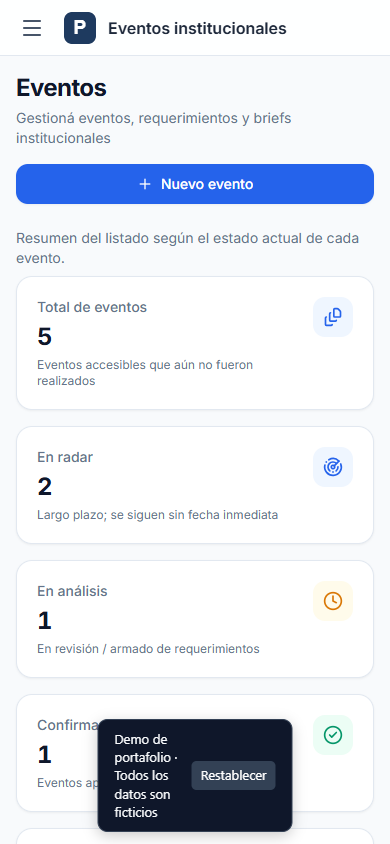
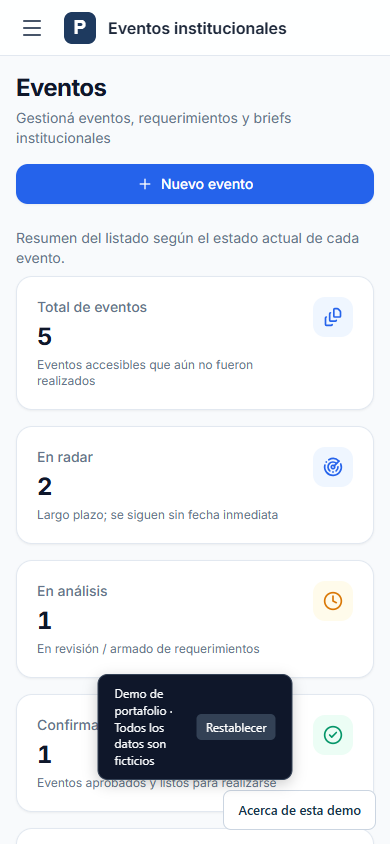
Add demo introductions, remove institutional branding and fix UTF-8 text

Changed region(s): [[0.2462, 0.8009, 0.9231, 1.0]]

diff --git a/lib/projects.ts b/lib/projects.ts
@@ -81,7 +81,7 @@ export const projects: Project[] = [
       '/proyectos/acreditapp/eventos.png',
       '/proyectos/acreditapp/informe.png',
     ],
-    meta: { type: 'Web app full stack', client: 'GCBA', date: '2025' },
+    meta: { type: 'Web app full stack', client: 'Organización', date: '2025' },
     results: [
       { value: 'Tiempo real', label: 'Control operativo durante el evento' },
       { value: '100%', label: 'Trazabilidad de acreditaciones' },
@@ -137,7 +137,7 @@ export const projects: Project[] = [
       '/proyectos/recursos-humanos/metricas.png',
       '/proyectos/recursos-humanos/aprobaciones.png',
     ],
-    meta: { type: 'Web app full stack', client: 'GCBA', date: '2025' },
+    meta: { type: 'Web app full stack', client: 'Organización', date: '2025' },
     results: [
       { value: '1 hub', label: 'Operación RR.HH. centralizada' },
       { value: 'Roles', label: 'Permisos y trazabilidad por perfil' },
@@ -155,11 +155,11 @@ export const projects: Project[] = [
   },
   {
     slug: 'buscador-dotacion-gcba',
-    title: 'Buscador Dotación GCBA',
+    title: 'Buscador Dotación',
     category: 'Herramienta de datos',
     shortDescription:
       'Aplicación interna para consultar y explotar más de 230.000 registros de dotación con filtros avanzados y exportaciones.',
-    what: 'Diseñé y desarrollé una aplicación web interna para consultar y explotar la dotación del GCBA sobre una base de más de 230.000 registros. Pensada para transformar una base extensa en una herramienta ágil, usable y orientada a decisiones.',
+    what: 'Diseñé y desarrollé una aplicación web interna para consultar y explotar la dotación de una organización sobre una base de más de 230.000 registros. Pensada para transformar una base extensa en una herramienta ágil, usable y orientada a decisiones.',
     problem:
       'El problema operativo concreto era transformar una base extensa y difícil de navegar en una herramienta usable: las consultas, segmentaciones y tareas administrativas requerían mucho tiempo o trabajo manual porque no existía una forma ágil de buscar personas, cruzar CUILs, detectar registros sin email o generar listas de mailing listas para exportar.',
     solution:
@@ -191,7 +191,7 @@ export const projects: Project[] = [
       '/proyectos/buscador-dotacion/cargos.png',
       '/proyectos/buscador-dotacion/mailing.png',
     ],
-    meta: { type: 'Web app de consulta', client: 'GCBA', date: '2025' },
+    meta: { type: 'Web app de consulta', client: 'Organización', date: '2025' },
     results: [
       { value: '230K+', label: 'Registros consultables' },
       { value: '−80%', label: 'Tiempo en consultas repetitivas' },
@@ -245,7 +245,7 @@ export const projects: Project[] = [
       '/proyectos/sigma/analytics.png',
       '/proyectos/sigma/gestion.png',
     ],
-    meta: { type: 'Plataforma de gestión', client: 'GCBA', date: '2025–2026' },
+    meta: { type: 'Plataforma de gestión', client: 'Organización', date: '2025–2026' },
     results: [
       { value: '1 vista', label: 'Consolidación de indicadores' },
       { value: 'Roles', label: 'Gestión por área y permisos' },
@@ -263,18 +263,18 @@ export const projects: Project[] = [
   },
   {
     slug: 'produccion-eventos',
-    title: 'Producci?n de eventos',
-    category: 'Gesti?n de eventos',
-    shortDescription: 'Plataforma para coordinar eventos, requerimientos de producci?n y calendarios institucionales.',
-    what: 'Sistema de gesti?n de eventos con estados, calendario, requerimientos por ?rea y seguimiento de la producci?n.',
+    title: 'Producción de eventos',
+    category: 'Gestión de eventos',
+    shortDescription: 'Plataforma para coordinar eventos, requerimientos de producción y calendarios institucionales.',
+    what: 'Sistema de gestión de eventos con estados, calendario, requerimientos por área y seguimiento de la producción.',
     problem: '',
     solution: '',
     problemPoints: [],
-    solutionFeatures: ['Gesti?n de eventos y estados', 'Calendario compartido', 'Requerimientos por ?rea'],
+    solutionFeatures: ['Gestión de eventos y estados', 'Calendario compartido', 'Requerimientos por área'],
     tech: ['React', 'TypeScript', 'Node.js', 'Prisma'],
     href: '/demos/produccion',
     gallery: ['/proyectos/produccion/listado.png', '/proyectos/produccion/calendario.png'],
-    meta: { type: 'Plataforma de gesti?n', client: 'GCBA', date: '2026' },
+    meta: { type: 'Plataforma de gestión', client: 'Organización', date: '2026' },
     results: [],
     process: [],
     featured: false,

diff --git a/components/projects/project-detail-content.tsx b/components/projects/project-detail-content.tsx
@@ -44,7 +44,7 @@ export function ProjectDetailContent({ project }: { project: Project }) {
                 <dd>{project.meta.client}</dd>
               </div>
               <div>
-                <dt>A?o</dt>
+                <dt>Año</dt>
                 <dd>{project.meta.date}</dd>
               </div>
             </dl>
@@ -65,13 +65,13 @@ export function ProjectDetailContent({ project }: { project: Project }) {
             <nav className="detail-nav" aria-label="Contenido del proyecto">
               <a href="#resumen">Contexto</a>
               <a href="#problema">Problema</a>
-              <a href="#solucion">Soluci?n</a>
+              <a href="#solucion">Solución</a>
               {project.process.length > 0 && <a href="#proceso">Proceso</a>}
               {project.results.length > 0 && (
                 <a href="#resultados">Resultados</a>
               )}
-              <a href="#tecnologias">Tecnolog?as</a>
-              {project.gallery.length > 0 && <a href="#galeria">Galer?a</a>}
+              <a href="#tecnologias">Tecnologías</a>
+              {project.gallery.length > 0 && <a href="#galeria">Galería</a>}
             </nav>
             <section id="resumen" className="detail-section" data-reveal>
               <h2>
@@ -81,7 +81,7 @@ export function ProjectDetailContent({ project }: { project: Project }) {
             </section>
             <section id="problema" className="detail-section" data-reveal>
               <h2>
-                <span>02 / Desaf?o</span>El problema.
+                <span>02 / Desafío</span>El problema.
               </h2>
               <div>
                 <p>{project.problem}</p>
@@ -97,7 +97,7 @@ export function ProjectDetailContent({ project }: { project: Project }) {
             </section>
             <section id="solucion" className="detail-section" data-reveal>
               <h2>
-                <span>03 / Producto</span>La soluci?n.
+                <span>03 / Producto</span>La solución.
               </h2>
               <div>
                 <p>{project.solution}</p>
@@ -157,7 +157,7 @@ export function ProjectDetailContent({ project }: { project: Project }) {
             {project.gallery.length > 0 && (
               <section id="galeria" className="gallery-section">
                 <p className="eyebrow">07 / Dentro del producto</p>
-                <h2>Una mirada m?s cerca.</h2>
+                <h2>Una mirada más cerca.</h2>
                 <div className="detail-gallery">
                   {project.gallery.map((src, index) => (
                     <figure key={src} data-reveal>

diff --git a/components/sections/skills-section.tsx b/components/sections/skills-section.tsx
@@ -18,7 +18,7 @@ const groups = [
   },
   {
     title: "Backend y datos",
-    description: "La estructura que conecta el producto con su operaci?n.",
+    description: "La estructura que conecta el producto con su operación.",
     skills: [
       "Node.js",
       "Express",
@@ -28,29 +28,29 @@ const groups = [
       "MongoDB",
       "APIs REST",
       "CRUD",
-      "An?lisis de datos",
+      "Análisis de datos",
     ],
   },
   {
-    title: "Producto y automatizaci?n",
+    title: "Producto y automatización",
     description:
-      "De la idea a producci?n, con procesos que pueden evolucionar.",
+      "De la idea a producción, con procesos que pueden evolucionar.",
     skills: [
       "Arquitectura web",
       "n8n",
       "Integraciones",
       "Despliegue",
       "Mantenimiento evolutivo",
-      "Documentaci?n t?cnica",
-      "Contenido did?ctico",
-      "Curr?culas",
-      "Mentor?a",
-      "Comunicaci?n t?cnica",
+      "Documentación técnica",
+      "Contenido didáctico",
+      "Currículas",
+      "Mentoría",
+      "Comunicación técnica",
       "Trabajo en equipo",
-      "Organizaci?n",
+      "Organización",
       "Mejora continua",
-      "Resoluci?n de problemas",
-      "Orientaci?n a resultados",
+      "Resolución de problemas",
+      "Orientación a resultados",
     ],
   },
 ];

diff --git a/components/hero-client.tsx b/components/hero-client.tsx
@@ -52,7 +52,7 @@ export function HeroClient() {
           </h1>
           <p className="hero-description" data-intro>
             Transformo problemas reales en software que funciona. Del primer
-            concepto a un producto en producci?n.
+            concepto a un producto en producción.
           </p>
           <div className="hero-actions" data-intro>
             <a className="button-primary" href="#proyectos">
@@ -66,8 +66,8 @@ export function HeroClient() {
         <div className="hero-object">
           <SculptureScene />
           <div className="object-caption">
-            <span>01 / Forma & funci?n</span>
-            <span>Dise?ado para conectar.</span>
+            <span>01 / Forma & función</span>
+            <span>Diseñado para conectar.</span>
           </div>
         </div>
       </div>

diff --git a/components/sections/about-section.tsx b/components/sections/about-section.tsx
@@ -18,14 +18,14 @@ export function AboutSection() {
             creador de software en Buenos Aires.
           </p>
           <p>
-            Dise?o y construyo aplicaciones completas: interfaces, APIs, bases
+            Diseño y construyo aplicaciones completas: interfaces, APIs, bases
             de datos e integraciones. Me interesa transformar procesos manuales
             en productos claros, usables y mantenibles.
           </p>
           <p>
             Actualmente trabajo en el Gobierno de la Ciudad de Buenos Aires.
-            Tambi?n tengo experiencia en an?lisis de datos, automatizaci?n y
-            formaci?n t?cnica.
+            También tengo experiencia en análisis de datos, automatización y
+            formación técnica.
           </p>
           <a
             className="text-link"

diff --git a/components/sections/projects-section.tsx b/components/sections/projects-section.tsx
@@ -80,7 +80,7 @@ export function ProjectsSection() {
         <div>
           <h2>
             Ideas que llegaron
-            <br />a <span>producci?n.</span>
+            <br />a <span>producción.</span>
           </h2>
           <p>
             Aplicaciones, plataformas y herramientas.
@@ -100,7 +100,7 @@ export function ProjectsSection() {
         ))}
       </div>
       <div className="other-projects" data-reveal>
-        <p className="eyebrow">M?s exploraciones</p>
+        <p className="eyebrow">Más exploraciones</p>
         {getOtherProjects().map((project) => (
           <a
             key={project.slug}

diff --git a/components/navbar.tsx b/components/navbar.tsx
@@ -89,7 +89,7 @@ export function Navbar() {
         </div>
         {open && (
           <div ref={panel} id="mobile-nav" className="mobile-nav">
-            <nav aria-label="Principal m?vil">
+            <nav aria-label="Principal móvil">
               {links.map(([id, label]) => (
                 <Link
                   href={prefix + "#" + id}

diff --git a/components/sections/contact-section.tsx b/components/sections/contact-section.tsx
@@ -4,7 +4,7 @@ export function ContactSection() {
     <section id="contacto" className="editorial-contact">
       <div className="shell">
         <p className="eyebrow" data-reveal>
-          04 / Pr?xima conversaci?n
+          04 / Próxima conversación
         </p>
         <h2 data-reveal>
           ?Algo en mente?

diff --git a/components/sections/experience-section.tsx b/components/sections/experience-section.tsx
@@ -66,7 +66,7 @@ export function ExperienceSection() {
         <h2>
           Experiencia
           <br />
-          <span>en acci?n.</span>
+          <span>en acción.</span>
         </h2>
       </div>
       <div>

diff --git a/README.md b/README.md
@@ -86,8 +86,10 @@ Código de interfaz: `components/desktop/doom-app.tsx`, protocolo en `doom.types
 Verificación local de DOOM: `node .impeccable/review/doom-check.mjs`, con `PORTFOLIO_TEST_URL` opcional. El flujo actual sin selector se verifica con `node .impeccable/review/doom-autoload-check.mjs`. Las pruebas actuales de episodio y presentación son `doom-episode-check.mjs` y `doom-hud-audio-check.mjs`: verifican PCM musical, HUD con escalas de pantalla 125% y 200%, activación de audio bloqueado, pantalla completa, E1M2/E1M9 y paso por el intermedio original. La prueba usa noclip para llegar al interruptor real de salida. Esto no equivale a completar manualmente todos los enemigos y secretos. La prueba principal usa Edge de escritorio; Chrome cuenta con verificación del ciclo de ventanas y teclado; Firefox requiere verificación adicional. `npm run lint` necesita configurar ESLint previamente; el repositorio no tiene configuración vigente.
 
 
-## Demos p?blicas sin datos reales
+## Demos públicas sin datos reales
 
-Acreditapp, Recursos Humanos, Buscador Dotaci?n, SIGMA y Producci?n de eventos tienen copias independientes en la carpeta externa `portfolio-demos`. Los originales permanecen intactos. Las copias conservan la interfaz y usan registros sint?ticos; no incluyen .env, bases privadas, documentos, fotos personales, historial Git ni backends productivos. Correo, IA y sincronizaciones externas est?n desactivados. La demo cubre los flujos principales indicados en el README de esa carpeta.
+Acreditapp, Recursos Humanos, Buscador Dotación, SIGMA y Producción de eventos tienen copias independientes en la carpeta externa `portfolio-demos`. Los originales permanecen intactos. Las copias conservan la interfaz y usan registros sintéticos; no incluyen .env, bases privadas, documentos, fotos personales, historial Git ni backends productivos. Correo, IA y sincronizaciones externas están desactivados. La demo cubre los flujos principales indicados en el README de esa carpeta.
 
-Los cinco accesos del portafolio apuntan a `/demos/[slug]` y redirigen a las URLs p?blicas verificadas registradas en `lib/demo-deployments.ts`. Mientras falte un deployment, producci?n muestra un estado pendiente y no env?a visitantes al sistema original. Las capturas del portafolio tambi?n provienen de los datos ficticios. Las cinco demos est?n publicadas y verificadas en Vercel. `.impeccable/review/vercel-deployments.json` registra sus URLs y despliegues.
+Los cinco accesos del portafolio apuntan a `/demos/[slug]` y redirigen a las URLs públicas verificadas registradas en `lib/demo-deployments.ts`. Mientras falte un deployment, producción muestra un estado pendiente y no envía visitantes al sistema original. Las capturas del portafolio también provienen de los datos ficticios. Las cinco demos están publicadas y verificadas en Vercel. `.impeccable/review/vercel-deployments.json` registra sus URLs y despliegues.
+
+Las cinco copias usan UTF-8 y eliminan las referencias a GCBA del código, los títulos y las etiquetas. Cada una presenta una bienvenida con su nombre, una descripción y acciones para explorar. El texto sobre su uso en un ambiente de trabajo con más de 360 personas fue proporcionado por el autor. La bienvenida recuerda su cierre durante la sesión y se puede volver a abrir con «Acerca de esta demo». Los datos de las demostraciones siguen siendo ficticios. La comprobación de bienvenida, teclado, codificación y vista móvil está en `.impeccable/review/demo-welcome-check.mjs`.

diff --git a/idea.md b/idea.md
@@ -3,28 +3,28 @@
 ## Identidad
 
 Desarrollador web full stack y creador de software. Buenos Aires, Argentina.
-Usar el contenido existente como fuente: no inventar clientes, logros, m?tricas ni experiencia.
+Usar el contenido existente como fuente: no inventar clientes, logros, métricas ni experiencia.
 
-## Direcci?n aprobada
+## Dirección aprobada
 
-Mezcla de 3D abstracto y dise?o editorial, con una identidad propia. Referencias conceptuales: Lusion (3D) y Dennis Snellenberg (composici?n editorial).
-Negro #05070a, superficies azul profundo #0f1f3d, blancos y acentos azul gris?ceo. Sin ne?n, violeta ni magenta.
-Plus Jakarta Sans, t?tulos grandes, jerarqu?a clara, espacios generosos y divisores finos. Evitar repetici?n de tarjetas y efectos de vidrio. Sin ilustraciones de ranas en el recorrido.
+Mezcla de 3D abstracto y diseño editorial, con una identidad propia. Referencias conceptuales: Lusion (3D) y Dennis Snellenberg (composición editorial).
+Negro #05070a, superficies azul profundo #0f1f3d, blancos y acentos azul grisáceo. Sin neón, violeta ni magenta.
+Plus Jakarta Sans, títulos grandes, jerarquía clara, espacios generosos y divisores finos. Evitar repetición de tarjetas y efectos de vidrio. Sin ilustraciones de ranas en el recorrido.
 
 ## Recorrido
 
 Inicio: nombre, rol, escultura y enlaces a proyectos/contacto.
 Proyectos: AcreditApp principal; destacados con capturas grandes; restantes en lista compacta.
 Perfil y experiencia: identidad y trayectoria existentes.
-Capacidades: interfaces; backend y datos; producto y automatizaci?n.
+Capacidades: interfaces; backend y datos; producto y automatización.
 Contacto: email, LinkedIn y CV.
-Detalles de proyectos: contexto, problema, soluci?n, proceso, resultados existentes, tecnolog?as y galer?a.
+Detalles de proyectos: contexto, problema, solución, proceso, resultados existentes, tecnolog?as y galer?a.
 
 ## Movimiento y accesibilidad
 
-Escultura procedural de tres aros met?licos y n?cleo, sin modelos externos. Rotaci?n suave, reacci?n al puntero en escritorio y desplazamiento con el scroll dentro de la portada.
-Scroll nativo, GSAP para entradas y revelados; contenido accesible inmediatamente. Canvas diferido, resoluci?n limitada y pausa fuera de pantalla. M?vil simplificado.
-Movimiento reducido y fallos WebGL: composici?n SVG est?tica. Navegaci?n por teclado, foco visible y men? m?vil accesible.
+Escultura procedural de tres aros met?licos y n?cleo, sin modelos externos. Rotaci?n suave, reacción al puntero en escritorio y desplazamiento con el scroll dentro de la portada.
+Scroll nativo, GSAP para entradas y revelados; contenido accesible inmediatamente. Canvas diferido, resolución limitada y pausa fuera de pantalla. M?vil simplificado.
+Movimiento reducido y fallos WebGL: composición SVG est?tica. Navegaci?n por teclado, foco visible y men? móvil accesible.
 
 ## Compatibilidad
 
